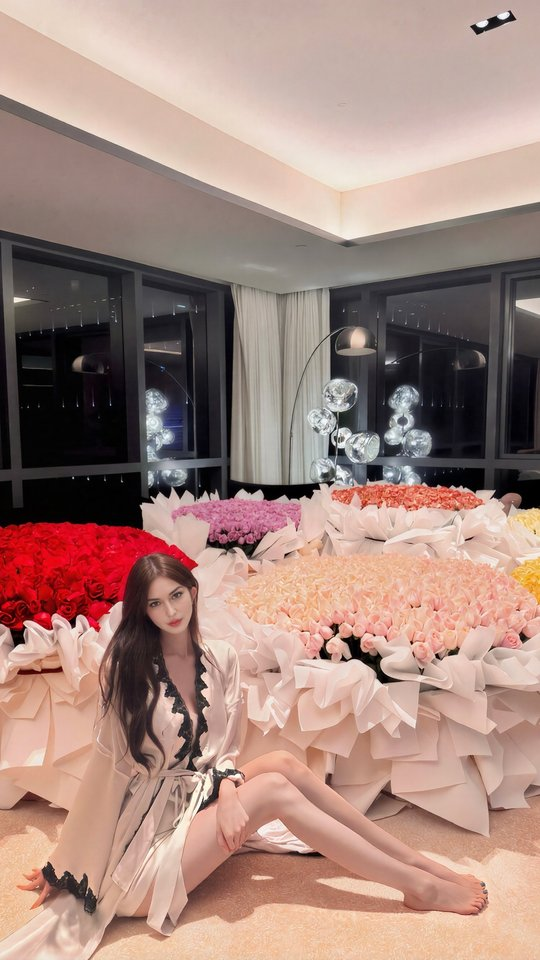
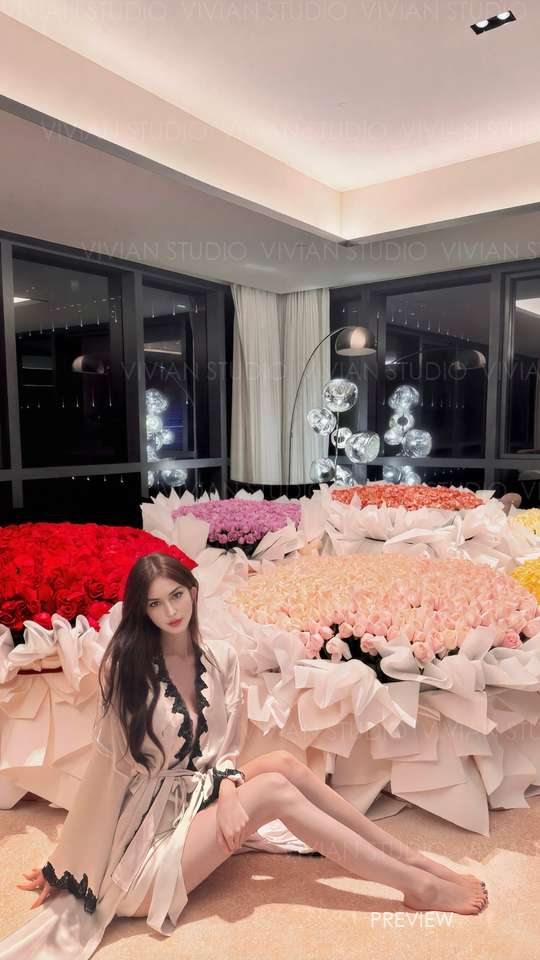
Add watermark + JS download protection to birthday card previews

diff --git a/birthday-card/index.html b/birthday-card/index.html
@@ -283,6 +283,25 @@ h1 {
 </div>
 
 <script>
+// ── 防下载保护 ──
+document.addEventListener('contextmenu', e => e.preventDefault());
+document.addEventListener('dragstart', e => e.preventDefault());
+document.addEventListener('copy', e => e.preventDefault());
+// 禁用键盘截图/保存快捷键
+document.addEventListener('keydown', e => {
+  if (e.key === 'F12' || 
+      (e.ctrlKey && e.shiftKey && ['I','J','C'].includes(e.key)) ||
+      (e.ctrlKey && e.key === 'u') ||
+      (e.ctrlKey && e.key === 's') ||
+      (e.metaKey && e.key === 's')) {
+    e.preventDefault();
+  }
+});
+// 所有图片上禁止右键菜单
+document.querySelectorAll('img').forEach(img => {
+  img.addEventListener('contextmenu', e => e.preventDefault());
+  img.addEventListener('mousedown', e => { if (e.button === 0) return false; });
+});
 // ── Template data ──
 const TEMPLATES = [
   { id: 1, name: "Sweet Dreams", image: "/birthday-card/templates/template1_thumb.jpg" },
